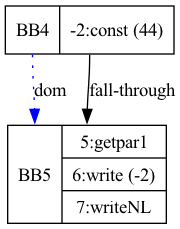
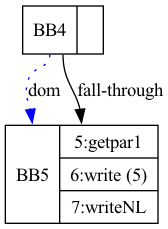
todo - fix [res/varVals3] not being shown properly for all [func]s, (do we need to show [func_ident] or can we just do [ident]?); todo - test more funcDecl's && [START FUNCCALLs]; resolved - [getpar::SSA] ident properly assigned to SSA

diff --git a/src/Parser.cpp b/src/Parser.cpp
@@ -137,6 +137,7 @@ void Parser::handle_getpar(Func *f, int paramNo) {
     
     SymbolTable::update_table(this->func->getName() + "_" + this->sym.get_value(), "identifier");
     this->varDeclarations.insert(SymbolTable::identifiers.at(f->getName() + "_" + this->sym.get_value()));
+    this->currBB->varVals.insert_or_assign(SymbolTable::identifiers.at(f->getName() + "_" + this->sym.get_value()), VV_value);
     this->VVs.insert_or_assign(SymbolTable::identifiers.at(f->getName() + "_" + this->sym.get_value()), VV_value);
     
     #ifdef DEBUG
@@ -180,6 +181,11 @@ SSA* Parser::p2_funcStart(Func *f) {
         paramNo++;
     }
 
+    #ifdef DEBUG
+        std::cout << "after handling getpar this->varVals looks like: " << std::endl;
+        this->printVVs(this->currBB->varVals);
+    #endif
+
     this->CheckFor(Result(2, 14)); // check for `)`
     this->CheckFor(Result(2, 4)); // check for `;` token
 
@@ -211,6 +217,8 @@ SSA* Parser::p2_funcStart(Func *f) {
 
     #ifdef DEBUG
         std::cout << "after funcStart, this->s_index = " << this->s_index << std::endl;
+        std::cout << "this->varVals looks like: " << std::endl;
+        this->printVVs(this->currBB->varVals);
     #endif
 
     return statSeq;
@@ -438,14 +446,22 @@ SSA* Parser::p_assignment() {
     // [07/28/2024]: Add [ident : value] mapping into [symbol_table], that's it.
     #ifdef DEBUG
         std::cout << "in [Parser::p_assignment]: key=" << SymbolTable::symbol_table.at(ident) << ", current varVal value="; 
-        
+
+        // [Parser::p_assignment()] 
         if (this->VVs.find(ident) != this->VVs.end()) {
             std::cout << BasicBlock::ssa_table.at(this->VVs.at(ident))->toString() << std::endl;
         } else {
             std::cout << "none!" << std::endl;
         }
+        // if (this->currBB->varVals.find(ident) != this->currBB->varVals.end()) {
+        //     std::cout << BasicBlock::ssa_table.at(this->currBB->varVals.at(ident))->toString() << std::endl;
+        // } else {
+        //     std::cout << "none!" << std::endl;
+        // }
     #endif
+    // [Parser::p_assignment()]
     this->VVs.insert_or_assign(ident, VV_value);
+    // this->currBB->varVals.insert_or_assign(ident, VV_value);
     Parser::printVVs(this->currBB->varVals);
 
 
@@ -683,13 +699,15 @@ SSA* Parser::p2_assignment() {
             #ifdef DEBUG
                 std::cout << "oldVal DOM's newVal! no need to create phi, simply performing a [valid] overwrite" << std::endl;
             #endif
-            this->currBB->varVals.insert_or_assign(ident, table_int);    
+            this->currBB->varVals.insert_or_assign(ident, table_int);
+            this->VVs.insert_or_assign(ident, table_int);
         }
     } else {
         #ifdef DEBUG
             std::cout << "not overwriting a ident, inserting in currBB" << std::endl;
         #endif
         this->currBB->varVals.insert_or_assign(ident, table_int);
+        this->VVs.insert_or_assign(ident, table_int);
     }
 
     Parser::printVVs(this->currBB->varVals);
@@ -1112,6 +1130,7 @@ SSA* Parser::p2_ifStatement() {
                     // [10.28.2024]: Update BasicBlock's VV
                     int phi_table_int = this->add_SSA_table(phi_instr);
                     this->currBB->varVals.insert_or_assign(p.first, phi_table_int);
+                    this->VVs.insert_or_assign(p.first, phi_table_int);
             }
         }
         
@@ -1326,6 +1345,7 @@ SSA* Parser::p2_ifStatement() {
             
             // [10.28.2024]: Update BasicBlock's VV
             this->currBB->varVals.insert_or_assign(p, phi_table_int);
+            this->VVs.insert_or_assign(p, phi_table_int);
             #ifdef DEBUG
                 std::cout << "currBB after update: " << this->currBB->toString() << std::endl;
             #endif

diff --git a/main.cpp b/main.cpp
@@ -61,7 +61,8 @@ int main() {
     std::string parser1_f = "res/Parser1_results.txt";
     std::string parser2_f = "res/Parser2_results.txt";
     std::string varVal1_f = "res/VarVal1_results.txt";
-    std::string varVal2_f = "res/VarVal2_results.txt";
+    std::string varVal2_f = "res/VarVal2_Parser_getSSA_results.txt";
+    std::string varVal3_f = "res/VarVal3_BB_ssa_table_results.txt";
     std::string linkedList1_f = "res/LinkedList1_results.txt";
     std::string linkedList2_f = "res/LinkedList2_results.txt";
 
@@ -161,33 +162,28 @@ int main() {
 
     std::unordered_map<std::string, SSA*> varVals2 = parser2.getVarVal();
     bool vv2 = fr.write_file_contents(varVal2_f, varVals2, "Var-Val");
-    if (st) { std::cout << "Results have successfully been written to: " << varVal2_f << "(size=[" << varVals2.size() << "])" << std::endl; }
+    if (vv2) { std::cout << "Results have successfully been written to: " << varVal2_f << "(size=[" << varVals2.size() << "])" << std::endl; }
     else { std::cout << "Error occured when trying to write results!" << std::endl; }
     
     bool ll2 = fr.write_file_contents(linkedList2_f, parser2.instrListToString(), "LinkedList");
     if (ll2) { std::cout << "Results have successfully been written to: " << linkedList2_f << "(size=[" << parser2.getInstrListSize() << "])" << std::endl; }
     else { std::cout << "Error occured when trying to write results!" << std::endl; }
 
-    
+    std::unordered_map<std::string, SSA*> varVals3 = parser2.getVarVal();
+    bool vv3 = fr.write_file_contents(varVal3_f, varVals3, "Var-Val");
+    if (vv3) { std::cout << "Results have successfully been written to: " << varVal3_f << "(size=[" << varVals3.size() << "])" << std::endl; }
+    else { std::cout << "Error occured when trying to write results!" << std::endl; }
 
-    // [11.25.2024]: need to remember to:
-    // - delete [Parser] obj's for [Func]'s
-    Parser::clearFuncMap();
-    // - generate and output all the diff [Func]'s DOT graph's
-    //      - do this by lookin in the [res/*.dot]; 
-    //          `res` folder for files with the `.dot` ext
-    FileReader::generateDOTsGraph();
-// static void generateDOTsGraph() {
-    // std::vector<std::string> dotFiles = FileReader::getDotFiles();
-    // std::string fileName;
-
-    // for (const auto &file : dotFiles) {
-    //     fileName = file.substr(0, file.find('.'));
-    //     system("dot -Tpng res/" + file + " -o dot/" + fileName + ".png");
-    // }
     // generate main DOT grpah
     // system("dot -Tpng res/DOT.dot -o dot/DOT.png");
-// }
+
+    // [11.25.2024]: delete [Parser] obj's for [Func]'s
+    Parser::clearFuncMap();
+    // [11.25.2024]: generate and output all the diff [Func]'s DOT graph's
+    FileReader::generateDOTsGraph();
+    #ifdef DEBUG
+        std::cout << "done clearing [Parser::funcMap] && generating DOT graphs (main & func's)" << std::endl;
+    #endif
 
     return 0;
 }

diff --git a/src/FileReader.hpp b/src/FileReader.hpp
@@ -249,6 +249,27 @@ public:
         return true; // Return true to indicate success
     }
 
+    // static bool write_file_contents(const std::string &out_f, const std::unordered_map<int, SSA*>& content, const std::string &tableName) {
+    //     // Open the file for writing
+    //     std::ofstream file(out_f);
+
+    //     // Check if the file was opened successfully
+    //     if (!file.is_open()) {
+    //         std::cerr << "Failed to open the file." << std::endl;
+    //         return false; // Return false to indicate failure
+    //     }
+
+    //     // Write content to the file
+    //     file << tableName << ";" << std::endl << "[KEYWORD/TERMINAL Literal]: \t[SSA Instruction]" << std::endl;
+    //     for (const auto &pair : content) { 
+    //         file << "[" << pair.first << "]" << ": [" << pair.second->toString() << "]" << std::endl;
+    //     }
+
+    //     // Close the file
+    //     file.close();
+    //     return true; // Return true to indicate success
+    // }
+
     static std::vector<std::string> getDotFiles() {
         std::string directory = "res";
         std::vector<std::string> dotFiles;
@@ -260,11 +281,12 @@ public:
                 dotFiles.push_back(entry.path().filename().string()); // Add full path to the vector
             }
         }
-
         return dotFiles;
     }
 
-    // [11.26.2024]: generateDOTs()
+    // [11.26.2024]: getDotFiles (right above)
+    //      - do this by lookin in the [res/*.dot]; 
+    //          `res` folder for files with the `.dot` ext
     static void generateDOTsGraph() {
         std::vector<std::string> dotFiles = FileReader::getDotFiles();
         std::string fileName;
@@ -274,10 +296,6 @@ public:
             std::string syss = "dot -Tpng res/" + file + " -o dot/" + fileName + ".png";
             system(syss.c_str());
         }
-        
-
-        // generate main DOT grpah
-        // system("dot -Tpng res/DOT.dot -o dot/DOT.png");
     }
 
 private:

diff --git a/src/Parser.hpp b/src/Parser.hpp
@@ -607,11 +607,16 @@ public:
 
     inline std::vector<SSA*> getSSA() const { return this->SSA_instrs; }
 
-    // [09/30/2024]: Converts to original varVal mapping
+    // [09/30/2024]: Converts to original varVal mapping from [this->VVs]
     std::unordered_map<std::string, SSA*> getVarVal() const { 
+        #ifdef DEBUG
+            std::cout << "getVarVal()" << std::endl;
+            // std::cout << "this->currBB: " << std::endl << this->currBB->toString() << std::endl;
+        #endif
         std::unordered_map<std::string, SSA *> res = {};
 
         for (const auto pair : this->VVs) {
+        // for (const auto pair : this->currBB->varVals) {
             res.insert(std::pair<std::string, SSA *>(SymbolTable::symbol_table.at(pair.first), BasicBlock::ssa_table.at(pair.second)));
         }
         
@@ -633,6 +638,7 @@ public:
         }
         
         this->currBB->varVals.insert_or_assign(ident, constInt);
+        this->VVs.insert_or_assign(ident, constInt);
         #ifdef DEBUG
             std::cout << "BB after handleUninitVar: " << std::endl << this->currBB->toString() << std::endl;
         #endif
@@ -659,7 +665,7 @@ public:
     static void printVVs(std::unordered_map<int, int> res) { // print varVals
         std::cout << "printing [varVals(size=" << res.size() << ")]:" << std::endl;
         for (const auto &p : res) {
-            std::cout << "[" << SymbolTable::symbol_table.at(p.first) << "], [" << BasicBlock::ssa_table.at(p.second)->toString() << "]" << std::endl;
+            std::cout << "[" << p.first << ": " << SymbolTable::symbol_table.at(p.first) << "], [" << BasicBlock::ssa_table.at(p.second)->toString() << "]" << std::endl;
         }
         std::cout << std::endl;
     }
